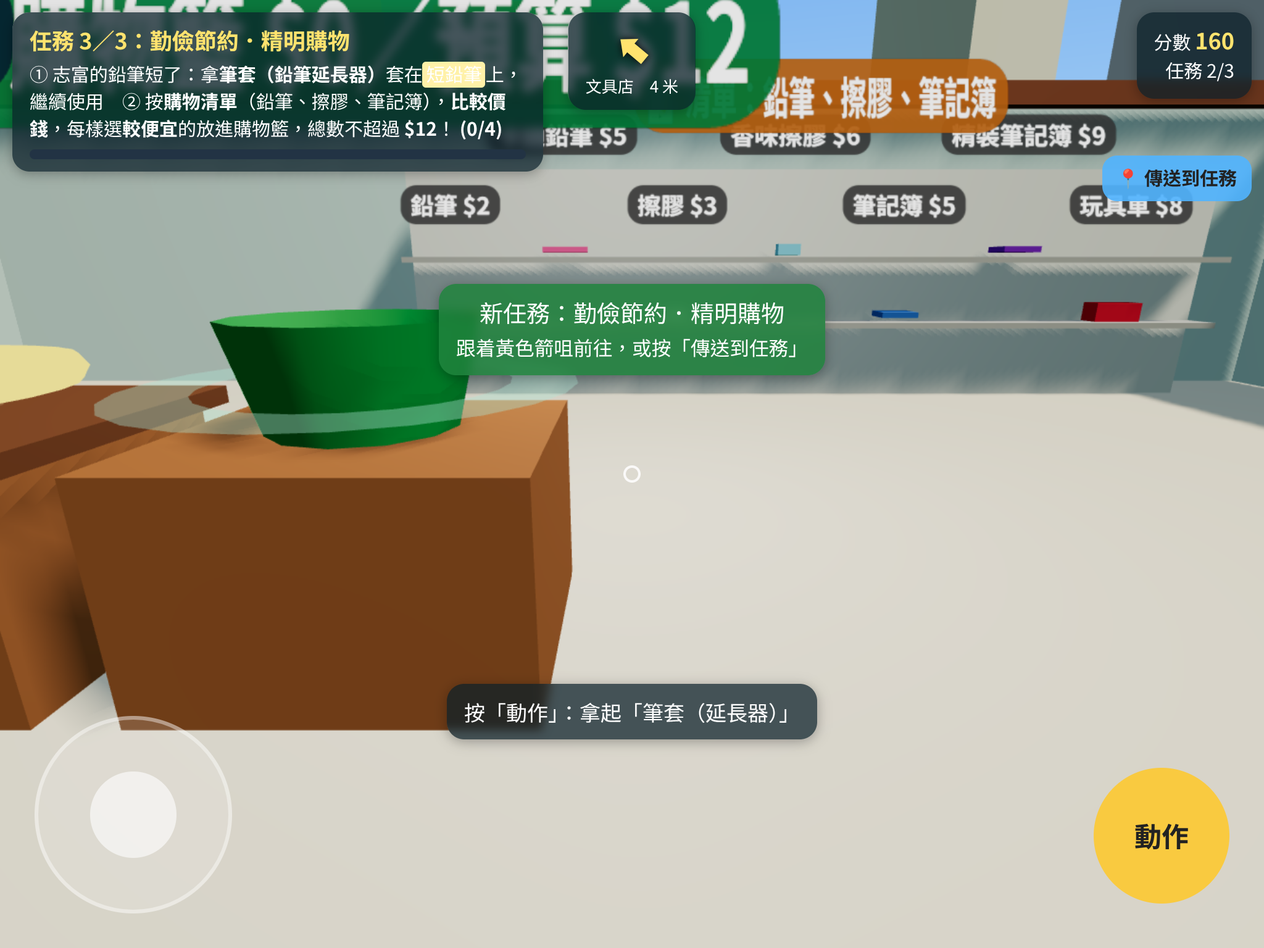
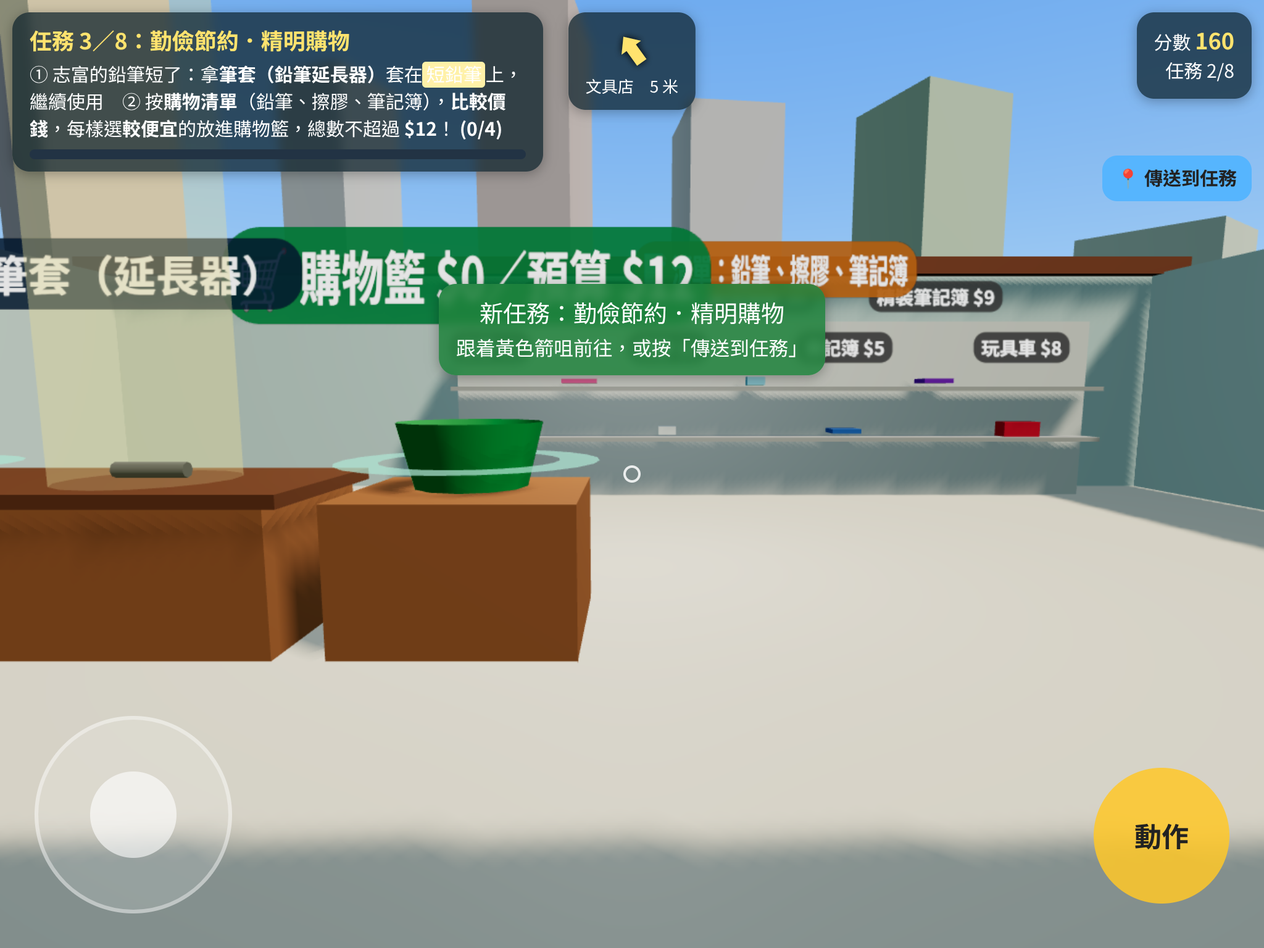
Full version: tasks 4-8, decluttered labels, furniture collisions

diff --git a/main.js b/main.js
@@ -185,7 +185,7 @@ function showModal(html, btn, cb) {
 }
 
 // ---------- item factory ----------
-function item(build, name, labelBg) { const g = new THREE.Group(); build(g); const lb = label(name || ' ', 0, 1.25, 0, 0.55, labelBg, null, g); lb.visible = !!name; g.userData.label = lb; scene.add(g); return g; }
+function item(build, name, labelBg, ls = 0.55) { const g = new THREE.Group(); build(g); const lb = label(name || ' ', 0, 1.25, 0, ls, labelBg, null, g); lb.visible = !!name; g.userData.label = lb; scene.add(g); return g; }
 const S = {
   bottle: g => { mesh(C(0.13, 0.13, 0.55), M(0x6fc6ff, { transparent: true, opacity: 0.75, roughness: 0.1 }), 0, 0.3, 0, g); mesh(C(0.06, 0.06, 0.1), M(0x1a5fd0), 0, 0.62, 0, g); },
   chair: g => { const w = M(0xa8743f); mesh(B(0.6, 0.08, 0.6), w, 0, 0.45, 0, g); mesh(B(0.6, 0.6, 0.08), w, 0, 0.78, -0.26, g); for (const [x, z] of [[-.25, -.25], [.25, -.25], [-.25, .25], [.25, .25]]) mesh(B(0.07, 0.45, 0.07), w, x, 0.22, z, g); },
@@ -209,7 +209,7 @@ const S = {
   plug: g => { mesh(B(0.18, 0.28, 0.12), M(0x2a2a2a), 0, 0.15, 0, g); mesh(B(0.04, 0.1, 0.04), M(0xd9b23a, { metalness: 0.8 }), 0, 0.33, 0, g); },
   box: c => g => { mesh(B(0.5, 0.5, 0.5), M(c), 0, 0.25, 0, g); },
 };
-function spawn(shape, name, x, z, task, kind, extra = {}) { const o = item(shape, name, extra.labelBg); o.position.set(x, extra.y ?? G(x, z), z); return addPickup(o, name, kind, task, extra); }
+function spawn(shape, name, x, z, task, kind, extra = {}) { const o = item(shape, name, extra.labelBg, extra.ls); o.position.set(x, extra.y ?? G(x, z), z); return addPickup(o, name, kind, task, extra); }
 
 // ---------- task framework ----------
 const tasks = []; let ti = 0;
@@ -239,6 +239,7 @@ const beacon = new THREE.Mesh(C(0.5, 0.5, 40, 16, 1, true), new THREE.MeshBasicM
 function zoneSign(text, x, z, h = 5) { const y = G(x, z); mesh(C(0.1, 0.1, h, 6), M(0x7a5a3a), x - 1.6, y + h / 2, z); mesh(C(0.1, 0.1, h, 6), M(0x7a5a3a), x + 1.6, y + h / 2, z); label(text, x, y + h, z, 1.3, 'rgba(30,110,60,0.92)'); }
 function crateAt(x, z, txt) { const g = new THREE.Group(); g.position.set(x, G(x, z), z); scene.add(g); mesh(B(1.4, 0.8, 1), M(0xa8743f), 0, 0.4, 0, g); mesh(B(1.5, 0.08, 1.1), M(0x7a4a2a), 0, 0.8, 0, g); label(txt, x, g.position.y + 2.3, z, 0.75); return g; }
 const boxes = []; // AABB colliders
+const furn = (x0, x1, z0, z1) => boxes.push([x0, x1, z0, z1]);
 function wall(x0, x1, z0, z1, h, mat) { const w = x1 - x0, d = z1 - z0; mesh(B(w, h, d), mat, (x0 + x1) / 2, h / 2, (z0 + z1) / 2); boxes.push([x0, x1, z0, z1]); }
 function room(cx, cz, W, D, wallC, floorC, doors) { // doors: {s:[gapx], n:[gapx]}
   const wm = M(wallC), x0 = cx - W / 2, x1 = cx + W / 2, z0 = cz - D / 2, z1 = cz + D / 2, h = 3.4, t = 0.3;
@@ -250,7 +251,7 @@ function room(cx, cz, W, D, wallC, floorC, doors) { // doors: {s:[gapx], n:[gapx
 // scenery
 {
   const d = new THREE.Object3D(), col = new THREE.Color(); const pts = [];
-  for (let i = 0; i < 600 && pts.length < 110; i++) { const x = rand(-90, 90), z = rand(-90, 60); if (Math.abs(x) < 22 && z > -45 && z < 20) continue; pts.push([x, z]); }
+  for (let i = 0; i < 600 && pts.length < 110; i++) { const x = rand(-90, 90), z = rand(-90, 60); if (Math.abs(x) < 36 && z > -42 && z < 36) continue; pts.push([x, z]); }
   const trunk = new THREE.InstancedMesh(C(0.15, 0.25, 1.6, 6), M(0x6b4a2b), pts.length), crown = new THREE.InstancedMesh(new THREE.IcosahedronGeometry(1.5, 0), M(0xffffff), pts.length);
   pts.forEach(([x, z], i) => { const s = rand(.9, 1.6); d.position.set(x, .8 * s, z); d.scale.setScalar(s); d.rotation.set(0, rand(0, 6), 0); d.updateMatrix(); trunk.setMatrixAt(i, d.matrix); d.position.y = 2.5 * s; d.updateMatrix(); crown.setMatrixAt(i, d.matrix); col.setHSL(.28 + rand(-.04, .04), .5, rand(.28, .4)); crown.setColorAt(i, col); });
   for (const m of [trunk, crown]) { m.castShadow = true; scene.add(m); }
@@ -297,6 +298,7 @@ const moneyS = (v) => g => { if (v >= 10 && v !== 10) { mesh(B(0.62, 0.02, 0.32)
   effects.push((dt, T) => { if (water.visible) water.scale.y = 1 + Math.sin(T * 30) * 0.05; });
 }
 
+furn(-1.1, 1.1, 0.3, 1.7); furn(-8.4, -4.4, -5.7, -4.7); furn(4, 7, 4.1, 5.2);
 // ===== 2. 管理金錢：分配零用錢 =====
 {
   const cx = -4, cz = -3.2;
@@ -311,17 +313,17 @@ const moneyS = (v) => g => { if (v >= 10 && v !== 10) { mesh(B(0.62, 0.02, 0.32)
     const g = new THREE.Group(); g.position.set(x, 0.9, -3.0); scene.add(g);
     if (k === 'save') { mesh(new THREE.SphereGeometry(0.38, 16, 12), M(c), 0, 0.35, 0, g).scale.set(1.2, 1, 1); mesh(B(0.2, 0.03, 0.04), M(0x333333), 0, 0.73, 0, g); }
     else mesh(B(0.8, 0.55, 0.6), M(c), 0, 0.28, 0, g);
-    lbls[k] = label(`${names[k]} $0/$${plan[k]}`, x, 2.4, -3.0, 0.62, 'rgba(40,40,80,0.9)');
+    lbls[k] = label(`${names[k]} $0/$${plan[k]}`, x, 1.95, -3.3, 0.42, 'rgba(40,40,80,0.9)');
     addSlot(new THREE.Vector3(x, 1.0, -2.7), names[k], t.id, it => {
       if (k !== 'save' && got.save < plan.save) return '記住<b>先儲蓄，後消費</b>！<br>先把 $50 放進儲蓄錢箱。';
       if (got[k] + it.v > plan[k]) return `${names[k]} 只需要 $${plan[k]}，放這 $${it.v} 會超出計劃！<br>量入為出，按計劃分配。`;
       return true;
     }, it => { it.obj.visible = false; got[k] += it.v; setLbl(lbls[k], `${names[k]} $${got[k]}/$${plan[k]}${got[k] === plan[k] ? ' ✔' : ''}`, got[k] === plan[k] ? 'rgba(30,140,60,0.9)' : 'rgba(40,40,80,0.9)'); g.scale.setScalar(1.15); setTimeout(() => g.scale.setScalar(1), 200); progress(t); }, { multi: true }).reach = 3.2;
   });
-  label('零用錢 $100', cx, 2.2, cz + 0.2, 0.6);
-  [20, 20, 10, 20, 10, 10, 10].forEach((v, i) => spawn(moneyS(v), '$' + v, cx - 1.9 + i * 0.63, cz + 0.25, t.id, 'money', { y: 0.9, v }));
+  [20, 20, 10, 20, 10, 10, 10].forEach((v, i) => spawn(moneyS(v), '$' + v, cx - 1.9 + i * 0.63, cz + 0.25, t.id, 'money', { y: 0.9, v, ls: 0.3 }));
 }
 
+furn(-6.3, -1.7, -3.9, -2.5);
 // ===== 3. 善用金錢：文具店 =====
 {
   const [cx, cz] = Z.shop; room(cx, cz, 16, 10, 0xd8eef0, 0xe8e0d0, { s: 0 });
@@ -354,15 +356,150 @@ const moneyS = (v) => g => { if (v >= 10 && v !== 10) { mesh(B(0.62, 0.02, 0.32)
   }, it => { it.obj.visible = false; bought[it.kind] = 1; spent += it.price; setLbl(bl, `🛒 購物籃 $${spent}／預算 $12`, 'rgba(30,110,60,0.92)'); progress(t); }, { multi: true }).reach = 3.5;
 }
 
+furn(-6, 0.7, -26.1, -24.9); furn(-2.5, 6.5, -32, -30.6);
+// ===== 4. 理財目標 =====
+{
+  const cx = -24, cz = 0; room(cx, cz, 16, 10, 0xfbe8d0, 0xd8b088, { n: 0 });
+  label('🎯 理財目標角', cx, 4.6, cz - 5.4, 1.3, 'rgba(180,90,30,0.92)');
+  const lp = new THREE.PointLight(0xffe8c0, 5, 14); lp.position.set(cx, 3, cz); scene.add(lp);
+  const t = defTask({ zone: '理財目標角', title: '訂立理財目標．儲蓄', total: 5, spawn: [cx, cz - 2.5, Math.PI],
+    desc: '① 把 3 個願望放到正確的<span class=hl>理財目標架</span>：短期（7月）、中期（12月）、長期（明年6月）　② 看看<b>六月收支紀錄</b>，把<b>$120 儲蓄</b>存入<span class=hl>儲蓄戶口</span>，零錢放進<span class=hl>錢箱</span>。',
+    lesson: `<p>訂立<b>理財目標</b>，有計劃地儲蓄：</p><ul><li>短期：🧩 拼圖 $100（7月）</li><li>中期：🎁 聖誕禮物 $500（12月）</li><li>長期：🚲 單車 $1000（明年6月）</li></ul><p>志富六月：收入 $400 ＝ 玩具 $120 ＋ 文具 $120 ＋ 捐款 $40 ＋ <b>儲蓄 $120</b>。</p><p>儲蓄方法：放進<b>錢箱</b>，或存入銀行<b>儲蓄戶口</b>。</p>` });
+  const shelves = [['短期 7月', 'short', cx - 4.5], ['中期 12月', 'mid', cx, ], ['長期 明年6月', 'long', cx + 4.5]];
+  shelves.forEach(([n, k, x]) => {
+    mesh(B(3.2, 0.12, 0.9), M(0x8a5a3a), x, 1.2, cz + 4.2); mesh(B(3.2, 2.4, 0.1), M(0xa87a50), x, 1.2, cz + 4.65); furn(x - 1.6, x + 1.6, cz + 3.7, cz + 4.8);
+    label(n, x, 2.9, cz + 4.2, 0.7, 'rgba(30,110,60,0.92)');
+    addSlot(new THREE.Vector3(x, 1.27, cz + 4.1), n, t.id, it => it.kind === k ? true : `想想「${it.name}」要多久才能儲夠錢？<br>目標時間：${it.when}`, it => { it.obj.userData.label.visible = true; progress(t); toast(`✔ ${it.name} 是${n.slice(0, 2)}目標`); }).reach = 3.4;
+  });
+  mesh(B(7, 0.1, 1.2), M(0xb0804a), cx, 0.85, cz - 1); furn(cx - 3.5, cx + 3.5, cz - 1.6, cz - 0.4);
+  [['🧩拼圖 $100', 'short', '7月', g => mesh(B(0.5, 0.08, 0.4), M(0x3ab0e0), 0, 0.1, 0, g)], ['🎁聖誕禮物 $500', 'mid', '12月', g => { mesh(B(0.45, 0.4, 0.45), M(0xd03030), 0, 0.25, 0, g); mesh(B(0.47, 0.42, 0.1), M(0xf0d040), 0, 0.25, 0, g); }], ['🚲單車 $1000', 'long', '明年6月', g => { for (const x of [-0.25, 0.25]) mesh(new THREE.TorusGeometry(0.17, 0.03, 6, 16), M(0x222222), x, 0.2, 0, g); mesh(B(0.5, 0.04, 0.04), M(0x2a7ad0), 0, 0.3, 0, g); }]]
+    .forEach(([n, k, w, sh], i) => spawn(sh, n, cx - 2.5 + i * 2.5, cz - 1, t.id, k, { y: 0.9, when: w }));
+  // June record board
+  mesh(B(4.4, 2.4, 0.1), M(0xffffff), cx - 7.8 + 0.1, 1.9, cz + 0.5).rotation.y = Math.PI / 2;
+  const rb = label('六月收支：收入$400', cx - 7.6, 2.8, cz + 0.5, 0.7, 'rgba(40,40,80,0.9)');
+  label('玩具$120 文具$120 捐款$40', cx - 7.6, 2.2, cz + 0.5, 0.7, 'rgba(40,40,80,0.9)');
+  const rs = label('儲蓄 $120 → ?', cx - 7.6, 1.6, cz + 0.5, 0.7, 'rgba(160,90,20,0.92)');
+  const atm = new THREE.Group(); atm.position.set(cx + 6.8, 0, cz - 3); scene.add(atm); mesh(B(1.2, 2, 0.8), M(0x2a5aa0), 0, 1, 0, atm); mesh(B(0.8, 0.5, 0.05), M(0x88ddff, { emissive: 0x206080 }), -0.62, 1.4, 0, atm).rotation.y = Math.PI / 2; furn(cx + 6.2, cx + 7.6, cz - 3.4, cz - 2.6);
+  const al = label('🏦 儲蓄戶口 $0', cx + 6.8, 2.7, cz - 3, 0.7, 'rgba(30,80,160,0.92)');
+  const pig = mesh(new THREE.SphereGeometry(0.35, 14, 10), M(0xff8aa8), cx - 5, 1.25, cz - 1); pig.scale.x = 1.2;
+  const pl = label('🐷 錢箱', cx - 5, 2.1, cz - 1, 0.55);
+  spawn(moneyS(100), '$120 儲蓄', cx + 2.6, cz - 1.2, t.id, 'deposit', { y: 0.9 });
+  spawn(moneyS(1), '零錢', cx - 3.6, cz - 1, t.id, 'coin', { y: 0.9 });
+  addSlot(new THREE.Vector3(cx + 6, 1.0, cz - 3), '儲蓄戶口', t.id, it => it.kind === 'deposit' ? true : '零錢可以放進錢箱。', it => { it.obj.visible = false; setLbl(al, '🏦 儲蓄戶口 $120 ✔', 'rgba(30,140,60,0.9)'); setLbl(rs, '儲蓄 $120 ✔ 已存入', 'rgba(30,140,60,0.9)'); progress(t); }).reach = 3.4;
+  addSlot(new THREE.Vector3(cx - 5, 1.0, cz - 1), '錢箱', t.id, it => it.kind === 'coin' ? true : '$120 較多，存入銀行儲蓄戶口較安全。', it => { it.obj.visible = false; setLbl(pl, '🐷 錢箱 ✔', 'rgba(30,140,60,0.9)'); progress(t); }).reach = 3;
+}
+
+// ===== 5. 電子消費．防騙 =====
+{
+  const cx = -24, cz = -27; room(cx, cz, 16, 10, 0xe0e4f4, 0x9aa0b0, { s: 0 });
+  label('💻 網上購物室', cx, 4.6, cz + 5.2, 1.3, 'rgba(60,60,160,0.92)');
+  const lp = new THREE.PointLight(0xe0e8ff, 5, 14); lp.position.set(cx, 3, cz); scene.add(lp);
+  const t = defTask({ zone: '網上購物室', title: '電子消費．識破騙局', total: 7, spawn: [cx, cz + 3.5, 0],
+    desc: '① 拿<b>八達通</b>拍在<span class=hl>讀卡器</span>付款　② 用<b>卡套</b>遮蓋<span class=hl>信用卡</span>資料　③ 把<b>太便宜</b>的優惠和<b>中獎</b>彈窗拖進<span class=hl>垃圾桶</span>　④ 把可疑<b>網址、電話、轉數快 ID</b> 放進<span class=hl>防騙視伏器</span>檢查。',
+    lesson: `<p>電子消費方式：<b>八達通、流動支付、轉數快 QR、網上購物</b>，方便但要小心！</p><ul><li>價錢<b>太便宜</b>的優惠可能是陷阱 ❌</li><li><b>信用卡資料外洩</b>，會收到詐騙電話</li><li>網上<b>產品照片</b>可能和實物不同</li><li><b>保護個人資料</b>，不隨便提供</li><li>用<b>「防騙視伏器」</b>檢查可疑網址、電話號碼、轉數快 ID 🔍</li></ul>` });
+  mesh(B(6, 0.1, 1.4), M(0x7a5a3a), cx, 0.85, cz - 3.6); furn(cx - 3, cx + 3, cz - 4.4, cz - 2.9);
+  mesh(B(1.8, 1.1, 0.08), M(0x111111), cx, 1.55, cz - 4.0); mesh(B(1.7, 1.0, 0.02), M(0x3a7ad0, { emissive: 0x2050a0 }), cx, 1.55, cz - 3.95, scene, false);
+  // reader
+  const rd = mesh(B(0.4, 0.15, 0.4), M(0xf0a020, { emissive: 0x402000 }), cx - 6, 1.0, cz + 1); mesh(B(1, 0.9, 1), M(0x888888), cx - 6, 0.45, cz + 1); furn(cx - 6.5, cx - 5.5, cz + 0.5, cz + 1.5);
+  const rl = label('八達通讀卡器 $8', cx - 6, 2.0, cz + 1, 0.6);
+  spawn(g => mesh(B(0.45, 0.03, 0.3), M(0xf0b030), 0, 0.1, 0, g), '八達通', cx - 4.6, cz - 3.6, t.id, 'oct', { y: 0.9 });
+  addSlot(new THREE.Vector3(cx - 6, 1.08, cz + 1), '讀卡器', t.id, it => it.kind === 'oct' ? true : '讀卡器要用八達通', it => { it.obj.userData.label.visible = false; rd.material.emissive.set(0x00a030); setLbl(rl, '嘟！付款成功 ✔', 'rgba(30,140,60,0.9)'); progress(t); }).reach = 3;
+  // credit card
+  const card = mesh(B(0.5, 0.02, 0.32), M(0x2050c0, { metalness: .4 }), cx + 2.2, 0.92, cz - 3.4);
+  const cl = label('信用卡資料外露！', cx + 2.2, 1.9, cz - 3.4, 0.6, 'rgba(160,40,30,0.9)');
+  spawn(g => mesh(B(0.56, 0.04, 0.38), M(0x333333), 0, 0.1, 0, g), '卡套', cx - 2.5, cz - 3.6, t.id, 'cover', { y: 0.9 });
+  addSlot(new THREE.Vector3(cx + 2.2, 0.9, cz - 3.4), '信用卡', t.id, it => it.kind === 'cover' ? true : '先用卡套遮蓋信用卡', it => { it.obj.userData.label.visible = false; setLbl(cl, '資料已保護 ✔', 'rgba(30,140,60,0.9)'); progress(t); }).reach = 3;
+  // popups
+  const pop = (txt, c) => g => { mesh(B(0.8, 0.5, 0.05), M(c, { emissive: c, emissiveIntensity: .3 }), 0, 0.35, 0, g); };
+  [['iPhone 只售$99!!', 'scam'], ['你中了大獎！按此領取', 'scam']].forEach(([n, k], i) => spawn(pop(n, 0xff5050), n, cx - 1.5 + i * 3, cz - 1, t.id, k, { y: 0.0, ls: 0.5 }));
+  [['網址 hsbc-hk.top', 'sus'], ['電話 +852 5xxx 未知', 'sus'], ['轉數快ID 9876543', 'sus']].forEach(([n, k], i) => spawn(pop(n, 0xffa030), n, cx + 3.5 + i * 1.6, cz + 1.2, t.id, k, { y: 0.0, ls: 0.5 }));
+  const bin = new THREE.Group(); bin.position.set(cx + 6.5, 0, cz - 3.2); scene.add(bin); mesh(C(0.5, 0.4, 1, 12), M(0x555555), 0, 0.5, 0, bin); label('🗑 垃圾桶', cx + 6.5, 1.8, cz - 3.2, 0.6);
+  addSlot(new THREE.Vector3(cx + 6.5, 1.0, cz - 3.2), '垃圾桶', t.id, it => it.kind === 'scam' ? true : it.kind === 'sus' ? '不確定真假？先放進防騙視伏器檢查！' : '這個不用丟', it => { it.obj.visible = false; progress(t); toast('❌ 太便宜／中獎＝陷阱，刪除！'); }, { multi: true }).reach = 3.2;
+  const sc = new THREE.Group(); sc.position.set(cx - 5.5, 0, cz - 3); scene.add(sc); mesh(B(1.2, 1.4, 1), M(0x20a080), 0, 0.7, 0, sc); const scl = mesh(B(0.9, 0.05, 0.7), M(0x90ffe0, { emissive: 0x30a080 }), 0, 1.43, 0, sc, false); furn(cx - 6.1, cx - 4.9, cz - 3.5, cz - 2.5);
+  const sl = label('🔍 防騙視伏器', cx - 5.5, 2.4, cz - 3, 0.7, 'rgba(20,120,90,0.92)');
+  addSlot(new THREE.Vector3(cx - 5.5, 1.5, cz - 3), '防騙視伏器', t.id, it => it.kind === 'sus' ? true : it.kind === 'scam' ? '明顯的陷阱直接丟進垃圾桶！' : '這個不用檢查', it => { it.obj.visible = false; scl.material.emissive.set(0xc02020); setLbl(sl, '⚠ 高風險！不要付款', 'rgba(180,30,30,0.92)'); setTimeout(() => { scl.material.emissive.set(0x30a080); }, 900); progress(t); toast('防騙視伏器：<b>' + it.name + '</b> 屬高風險 ⚠'); }, { multi: true }).reach = 3.2;
+  effects.push((dt, T) => { for (const i of inter) if (i.task === t.id && (i.kind === 'scam' || i.kind === 'sus')) i.obj.position.y = 0.9 + Math.sin(T * 2 + i.obj.position.x) * 0.12; });
+}
+
+// ===== 6. 綠色消費 =====
+{
+  const cx = 24, cz = -27; room(cx, cz, 16, 10, 0xe4f4dc, 0xc8d8b0, { s: 0 });
+  label('🌱 綠色小店（無包裝／二手）', cx, 4.6, cz + 5.2, 1.3, 'rgba(30,120,50,0.92)');
+  const lp = new THREE.PointLight(0xf0ffe8, 5, 14); lp.position.set(cx, 3, cz); scene.add(lp);
+  const t = defTask({ zone: '綠色小店', title: '綠色消費：推購物車', total: 7, spawn: [cx + 4, cz + 3.5, 0],
+    desc: '① 把<b>空樽</b>拿到<span class=hl>補充站</span>入沐浴露　② 揀選 5 件<b>綠色</b>貨品放進<span class=hl>購物車</span>（簡單包裝、本地、可重用、二手），<b>過度包裝</b>等要放回<span class=hl>退貨架</span>　③ 把購物車<b>推</b>到收銀處。',
+    lesson: `<p><b>綠色消費</b>：</p><ul><li>避免<b>過度包裝</b> 📦</li><li>選購<b>本地</b>農產品，減少運輸 🥬</li><li>選<b>可重用</b>物品：毛巾代替紙巾</li><li>想想<b>廢物如何處理</b>：到無包裝店<b>補充沐浴露</b>、用番梘</li><li>購買<b>二手</b>物品 ♻</li></ul>` });
+  for (const [x, z] of [[cx - 4, cz - 4.3], [cx + 3, cz - 4.3]]) { mesh(B(5, 1.8, 0.8), M(0xb08a5a), x, 0.9, z); furn(x - 2.5, x + 2.5, z - 0.4, z + 0.4); }
+  const items = [['本地菜心', 'g', 0x40a040], ['毛巾（可重用）', 'g', 0xf0f0ff], ['番梘', 'g', 0xf0e0a0], ['二手故事書', 'g', 0x8a5a3a], ['過度包裝月餅', 'b', 0xd03030], ['盒裝紙巾', 'b', 0xffffff], ['空運進口車厘子', 'b', 0x900020]];
+  const why = { '過度包裝月餅': '月餅盒過度包裝，製造大量垃圾！', '盒裝紙巾': '紙巾用完即棄，選可重用的毛巾吧！', '空運進口車厘子': '空運進口耗能，選本地農產品！' };
+  items.forEach(([n, k, c], i) => spawn(g => { mesh(k === 'b' && n.includes('月餅') ? B(0.6, 0.35, 0.6) : B(0.4, 0.25, 0.3), M(c), 0, 0.15, 0, g); if (n.includes('月餅')) mesh(B(0.65, 0.05, 0.65), M(0xf0c020), 0, 0.33, 0, g); }, n, cx - 6 + (i % 4) * 1.4 + (i > 3 ? 7.5 : 0), cz - 4.3, t.id, k, { y: 1.8, ls: 0.5, labelBg: k === 'g' ? 'rgba(40,110,50,0.85)' : 'rgba(60,60,60,0.85)' }));
+  const refill = new THREE.Group(); refill.position.set(cx + 6.8, 0, cz); scene.add(refill); mesh(B(0.8, 1.6, 0.8), M(0x3aa0c0), 0, 0.8, 0, refill); mesh(C(0.3, 0.3, 0.8, 12), M(0xa0e0ff, { transparent: true, opacity: .7 }), 0, 2.0, 0, refill); furn(cx + 6.4, cx + 7.2, cz - 0.4, cz + 0.4);
+  label('🧴 沐浴露補充站', cx + 6.8, 2.9, cz, 0.65, 'rgba(30,110,150,0.92)');
+  spawn(g => mesh(C(0.1, 0.12, 0.35, 10), M(0xffffff, { transparent: true, opacity: .6 }), 0, 0.2, 0, g), '自備空樽', cx + 5, cz + 3, t.id, 'bottle', { y: 0 });
+  const cart = new THREE.Group(); cart.position.set(cx + 1, 0.12, cz); scene.add(cart);
+  mesh(B(1.2, 0.7, 0.8), M(0x2fa84f, { metalness: .3 }), 0, 0.8, 0, cart); for (const [x, z] of [[-.5, -.35], [.5, -.35], [-.5, .35], [.5, .35]]) mesh(new THREE.SphereGeometry(0.1, 8, 6), M(0x222222), x, 0.1, z, cart); mesh(B(0.06, 0.6, 0.8), M(0x777777), 0.62, 1.2, 0, cart);
+  const cl = label('🛒 購物車 0/5', 0, 2.2, 0, 0.6, 'rgba(30,110,60,0.92)', null, cart); let n = 0; let cartPush = null;
+  const fill = mesh(B(1.0, 0.1, 0.6), M(0x8ad070), 0, 0.5, 0, cart, false); fill.visible = false;
+  const checkout = new THREE.Group(); checkout.position.set(cx - 5, 0, cz); scene.add(checkout); mesh(B(1.2, 1, 2), M(0xa86a3a), -1, 0.5, 0, checkout); label('收銀處', cx - 6, 2, cz, 0.7, 'rgba(160,90,20,0.92)');
+  const coSlot = addSlot(new THREE.Vector3(cx - 4.4, 0.12, cz), '收銀處', t.id, () => false, () => { cartPush.done = true; setLbl(cl, '✔ 綠色購物完成', 'rgba(30,140,60,0.92)'); progress(t); toast('綠色購物完成！🌏'); }, { enabled: false }); coSlot.reach = 0;
+  const addGood = () => { n++; setLbl(cl, `🛒 購物車 ${n}/5`, 'rgba(30,110,60,0.92)'); fill.visible = true; fill.position.y = 0.5 + n * 0.08; progress(t);
+    if (n >= 5) { coSlot.enabled = true; coSlot.marker.visible = true; cartPush = addPush(cart, '購物車', t.id, [coSlot]); toast('滿車了！從購物車<b>右邊</b>把它推向收銀處（左方）。'); } };
+  addSlot(new THREE.Vector3(cx + 1, 1.0, cz), '購物車', t.id, it => n >= 5 ? '購物車已滿' : it.kind === 'g' || it.kind === 'refilled' ? true : it.kind === 'bottle' ? '空樽先到補充站入沐浴露！' : '✗ ' + why[it.name] + '<br>放回退貨架吧。', it => { it.obj.visible = false; addGood(); }, { multi: true }).reach = 3.2;
+  addSlot(new THREE.Vector3(cx + 6.8, 1.6, cz), '補充站', t.id, it => it.kind === 'bottle' ? true : '補充站只可入沐浴露', it => { it.obj.position.set(cx + 6, 1.6, cz + 0.8); const r = addPickup(it.obj, '沐浴露（補充裝）', 'refilled', t.id); it.obj.userData.label.visible = true; setLbl(it.obj.userData.label, '沐浴露（補充裝）'); it.obj.children[0].material = M(0x7ad0a0, { transparent: true, opacity: .85 }); toast('入滿沐浴露，不用買新膠樽！'); }, {}).reach = 3;
+  const ret = new THREE.Group(); ret.position.set(cx - 6.8, 0, cz + 3); scene.add(ret); mesh(B(1, 1.2, 1.6), M(0x888888), 0, 0.6, 0, ret); label('↩ 退貨架', cx - 6.8, 2, cz + 3, 0.6); furn(cx - 7.3, cx - 6.3, cz + 2.2, cz + 3.8);
+  addSlot(new THREE.Vector3(cx - 6.8, 1.25, cz + 3), '退貨架', t.id, it => it.kind === 'b' ? true : '這是綠色貨品，放進購物車吧！', it => { it.obj.visible = false; progress(t); toast('放回了不環保的貨品 ↩'); }, { multi: true }).reach = 3;
+  t.total = 5 + 3 + 1; // 5 goods + 3 returns + push
+}
+
+// ===== 7. 金錢可以買到一切嗎？ =====
+{
+  const cx = 24, cz = 0; room(cx, cz, 16, 10, 0xf8e0f0, 0xe0c8d8, { n: 0 });
+  label('🎈 金錢可以買到一切嗎？', cx, 4.6, cz - 5.4, 1.3, 'rgba(160,50,120,0.92)');
+  const lp = new THREE.PointLight(0xfff0f8, 5, 14); lp.position.set(cx, 3, cz); scene.add(lp);
+  const can = ['玩具', '書本', '食物', '衣服'], cannot = ['快樂', '知識', '友誼', '時間', '健康', '自信', '親情'];
+  const t = defTask({ zone: '氣球房', title: '金錢可以買到一切嗎？', total: can.length + cannot.length, spawn: [cx, cz - 2.5, Math.PI],
+    desc: '捉住飄浮的<b>氣球</b>，放進<span class=hl>💰 金錢能買到</span>或<span class=hl>💖 金錢不能買到</span>的籠子。',
+    lesson: `<p>金錢<b>能買到</b>：玩具、書本、食物、衣服……</p><p>但金錢<b>不能買到</b>：<b>快樂、知識、友誼、時間、健康、自信、親情</b>。</p><p>金錢很重要，但不是萬能的！要珍惜身邊無價的東西 💖</p>` });
+  const cages = [['💰 金錢能買到', 'can', cx - 4, 0xf0c020], ['💖 金錢不能買到', 'cannot', cx + 4, 0xff70a0]];
+  const cnt = { can: 0, cannot: 0 }; const cls = {};
+  cages.forEach(([nm, k, x, c]) => { mesh(C(1.3, 1.3, 0.2, 20), M(c), x, 0.1, cz + 3.4); mesh(C(1.3, 1.3, 2.6, 20, 1, true), M(c, { transparent: true, opacity: 0.25, side: THREE.DoubleSide }), x, 1.4, cz + 3.4, scene, false); furn(x - 1.3, x + 1.3, cz + 2.1, cz + 4.7);
+    cls[k] = label(nm, x, 3.3, cz + 3.4, 0.8, 'rgba(60,40,80,0.9)');
+    addSlot(new THREE.Vector3(x, 1.2, cz + 2.2), nm, t.id, it => it.kind === k ? true : k === 'can' ? `「${it.name}」用錢買不到！` : `「${it.name}」可以用錢買到。`, it => { cnt[k]++; it.obj.position.set(x + Math.cos(cnt[k] * 1.7) * 0.6, 1.3 + (cnt[k] % 3) * 0.4, cz + 3.4 + Math.sin(cnt[k] * 1.7) * 0.6); it.obj.userData.label.visible = true; it.obj.userData.label.scale.set(1.6, 0.4, 1); it.placed = true; progress(t); }, { multi: true }).reach = 3.4; });
+  const balloon = c => g => { mesh(new THREE.SphereGeometry(0.28, 14, 10), M(c, { roughness: .3 }), 0, 0.9, 0, g).scale.y = 1.2; mesh(C(0.005, 0.005, 0.8, 3), M(0xffffff), 0, 0.4, 0, g, false); };
+  [...can.map(n => [n, 'can']), ...cannot.map(n => [n, 'cannot'])].sort(() => 0.5 - Math.random()).forEach(([n, k], i) => {
+    const it = spawn(balloon(new THREE.Color().setHSL(i / 11, .75, .55).getHex()), n, cx - 6 + (i % 6) * 2.4, cz - 2.6 + Math.floor(i / 6) * 2.2, t.id, k, { y: 0.3, ls: 0.45 }); it.bal = true; });
+  effects.push((dt, T) => { for (const i of inter) if (i.bal) i.obj.position.y = 0.3 + Math.sin(T * 1.5 + i.obj.position.x * 2) * 0.15; });
+}
+
+// ===== 8. 理財小達人大堂 =====
+{
+  const cx = 0, cz = 24; room(cx, cz, 20, 12, 0xfff4d8, 0xb08060, { n: 0 });
+  label('🏆 理財小達人大堂', cx, 4.6, cz - 6.4, 1.4, 'rgba(180,120,20,0.95)');
+  const lp = new THREE.PointLight(0xfff0c0, 8, 18); lp.position.set(cx, 3.2, cz); scene.add(lp);
+  mesh(B(8, 0.5, 3), M(0x8a2a2a), cx, 0.25, cz + 4); furn(cx - 4, cx + 4, cz + 2.5, cz + 5.5);
+  const steps = ['① 珍惜父母血汗錢', '② 先儲蓄後消費', '③ 精明消費比價錢', '④ 綠色消費愛地球', '⑤ 快樂親情錢買不到'];
+  const t = defTask({ zone: '大堂', title: '砌出「理財有方」獎盃塔', total: 6, spawn: [cx, cz - 3, Math.PI],
+    desc: '把 5 塊<b>理財積木</b>按次序（①到⑤，由下而上）疊在台上的<span class=hl>獎盃塔</span>，最後<b>拉下</b>彩帶繩慶祝！',
+    lesson: `<p>🎉 你已學會「理財有方」的五大重點：</p><ol><li>家中金錢由父母辛勤工作賺來，要珍惜</li><li>零用錢分儲蓄、消費、捐款；先儲蓄後消費、量入為出</li><li>勤儉節約、訂理財目標、比較價錢、小心電子消費陷阱</li><li>綠色消費</li><li>金錢不能買到一切</li></ol>` });
+  let lv = 0; const tower = new THREE.Vector3(cx, 0.5, cz + 3.6);
+  steps.forEach((n, i) => spawn(g => mesh(B(1.4 - i * 0.18, 0.4, 1.0 - i * 0.1), M(new THREE.Color().setHSL(i / 6, .7, .55).getHex()), 0, 0.2, 0, g), n, cx - 7 + [3, 0, 12, 6, 9][i], cz - 2.5 + (i % 2) * 1.5, t.id, 'blk', { lv: i, y: 0, ls: 0.4 }));
+  const sl = addSlot(tower.clone(), '獎盃塔', t.id, it => it.lv === lv ? true : `要按次序！下一塊是「${steps[lv]}」`, it => { it.obj.position.set(cx, 0.5 + lv * 0.4, cz + 3.6); it.obj.userData.label.visible = false; lv++; sl.pos.y = 0.5 + lv * 0.4; progress(t); if (lv === 5) { cup.visible = true; rope.visible = true; } }, { multi: true }); sl.reach = 4;
+  const cup = new THREE.Group(); cup.position.set(cx, 2.5, cz + 3.6); scene.add(cup); mesh(C(0.4, 0.15, 0.6, 16), M(0xf0c030, { metalness: .9, roughness: .2 }), 0, 0.3, 0, cup); mesh(C(0.1, 0.25, 0.2, 12), M(0xf0c030, { metalness: .9, roughness: .2 }), 0, 0, 0, cup); cup.visible = false;
+  const rope = new THREE.Group(); rope.position.set(cx + 5, 0, cz + 1); scene.add(rope); mesh(C(0.04, 0.04, 2.6, 6), M(0xd03030), 0, 2.1, 0, rope); mesh(new THREE.SphereGeometry(0.15, 8, 6), M(0xf0c020), 0, 0.8, 0, rope); label('拉下彩帶繩 🎊', cx + 5, 2.2, cz + 1, 0.6, 'rgba(180,40,40,0.9)');
+  const confetti = particles(400, 0xffffff, 0.25, { opacity: 1 }); confetti.visible = false; let ct = 0;
+  addSwitch(rope, '彩帶繩', t.id, it => { if (lv < 5) { mistakes++; toast('先砌好獎盃塔！', 'bad'); return; } it.done = true; rope.position.y = -0.6; confetti.visible = true; progress(t); toast('🎊 恭喜！理財小達人！'); }, '拉下');
+  effects.push((dt, T) => { if (cup.visible) cup.rotation.y += dt; if (!confetti.visible) return; ct += dt; const p = confetti.geometry.attributes.position, sd = confetti.userData.seed; for (let i = 0; i < sd.length; i++) { const f = (sd[i] + ct * 0.25) % 1; p.setXYZ(i, cx + Math.sin(i * 7.1) * 9, 3.3 - f * 3.3, cz + Math.cos(i * 3.3) * 5.5); } p.needsUpdate = true; confetti.material.color.setHSL((T * 0.3) % 1, 1, 0.6); });
+}
+
 // ---------- finale ----------
 const fireworks = particles(500, 0xffffff, 0.9, { opacity: 1 }); fireworks.visible = false;
 function finale() {
-  fireworks.visible = true; player.pos.set(0, 1.6, 10); player.yaw = 0; player.pitch = 0.35;
+  fireworks.visible = true; player.pos.set(0, 1.6, 20); player.yaw = Math.PI; player.pitch = 0.2;
   const stars = mistakes <= 3 ? '⭐⭐⭐' : mistakes <= 8 ? '⭐⭐' : '⭐';
-  showModal(`<h1>🎉 志富成為理財小達人！</h1><p style="font-size:34px;text-align:center;margin:0">${stars}</p><p style="text-align:center">總分：<b>${score}</b>　　放錯／提示：${mistakes} 次</p><h3>你學會了：</h3><ul><li>家中金錢由<b>父母工作賺取</b>，要<b>珍惜金錢、不浪費</b></li><li>零用錢分成<b>儲蓄、消費、捐款</b>；<b>先儲蓄後消費、量入為出</b></li><li><b>勤儉節約</b>；按<b>購物清單</b>和<b>預算</b>購物，<b>比較價錢</b></li></ul><p>（試玩版：更多任務即將推出！）</p>`, '欣賞煙花 🎆', () => { $('ttitle').textContent = '🎉 全部任務完成！'; $('tdesc').innerHTML = `總分 ${score}　按 F5 可重新開始`; });
+  showModal(`<h1>🎉 志富成為理財小達人！</h1><p style="font-size:34px;text-align:center;margin:0">${stars}</p><p style="text-align:center">總分：<b>${score}</b>　　放錯／提示：${mistakes} 次</p><h3>你學會了：</h3><ul><li>家中金錢由<b>父母工作賺取</b>，要<b>珍惜金錢、不浪費</b></li><li>零用錢分成<b>儲蓄、消費、捐款</b>；<b>先儲蓄後消費、量入為出</b></li><li><b>勤儉節約</b>；按<b>購物清單</b>和<b>預算</b>購物，<b>比較價錢</b></li><li><b>理財目標</b>：短期、中期、長期；錢箱／儲蓄戶口</li><li><b>電子消費</b>要小心陷阱，用防騙視伏器</li><li><b>綠色消費</b>：簡單包裝、本地、可重用、補充裝、二手</li><li>金錢<b>不能買到</b>快樂、知識、友誼、時間、健康、自信、親情</li></ul><p></p>`, '欣賞煙花 🎆', () => { $('ttitle').textContent = '🎉 全部任務完成！'; $('tdesc').innerHTML = `總分 ${score}　按 F5 可重新開始`; });
   sfx(523, .2); sfx(659, .2, .2); sfx(784, .2, .4); sfx(1046, .5, .6);
 }
-effects.push((dt, T) => { if (!fireworks.visible) return; const p = fireworks.geometry.attributes.position, sd = fireworks.userData.seed; for (let i = 0; i < sd.length; i++) { const burst = i % 8, f = (T * 0.4 + burst * 0.13) % 1, a = sd[i] * 6.283, b = (i * 0.37) % 3.14; const bx = -35 + burst * 10, by = 22 + (burst % 3) * 7, bz = -40; const r = f * 11; p.setXYZ(i, bx + Math.cos(a) * Math.sin(b) * r, by + Math.cos(b) * r - f * f * 5, bz + Math.sin(a) * Math.sin(b) * r); } p.needsUpdate = true; fireworks.material.color.setHSL((T * 0.2) % 1, 1, 0.65); });
+effects.push((dt, T) => { if (!fireworks.visible) return; const p = fireworks.geometry.attributes.position, sd = fireworks.userData.seed; for (let i = 0; i < sd.length; i++) { const burst = i % 8, f = (T * 0.4 + burst * 0.13) % 1, a = sd[i] * 6.283, b = (i * 0.37) % 3.14; const bx = -35 + burst * 10, by = 22 + (burst % 3) * 7, bz = 60; const r = f * 11; p.setXYZ(i, bx + Math.cos(a) * Math.sin(b) * r, by + Math.cos(b) * r - f * f * 5, bz + Math.sin(a) * Math.sin(b) * r); } p.needsUpdate = true; fireworks.material.color.setHSL((T * 0.2) % 1, 1, 0.65); });
 
 // ---------- main loop ----------
 const clock = new THREE.Clock(); let T = 0;
@@ -400,6 +537,7 @@ function update(dt) {
     const k = isTouch ? '按「動作」' : '按 E／左鍵';
     pr.textContent = focus.s ? `${k}：把「${carried.name}」放進「${focus.s.name}」` : `${k}：${focus.i.type === 'switch' ? focus.i.verb : focus.i.type === 'push' ? '推動' : '拿起'}「${focus.i.name}」`; pr.style.display = 'block';
   } else { ring.visible = false; if (carried && !paused) { pr.textContent = `正拿着「${carried.name}」— 走到發光圓圈並對準它`; pr.style.display = 'block'; } else pr.style.display = 'none'; }
+  for (const i of inter) { const l = i.obj.userData.label; if (l && i.name && i !== carried) l.visible = i.task === ti; }
   for (const s of slots) if (s.marker.visible) s.marker.material.opacity = 0.45 + Math.sin(T * 4) * 0.3;
   for (const e of effects) e(dt, T);
   const t = curTask();

diff --git a/index.html b/index.html
@@ -49,7 +49,7 @@ canvas{display:block;touch-action:none}
 </div>
 <div id="modal" class="modal"><div class="card" id="card">
 <h1>💰 理財有方：志富的金錢任務</h1>
-<p>你是<b>志富</b>！走遍<b>志富的家、零用錢銀行角和文具店</b>，親手完成理財任務，學會珍惜和善用金錢。（試玩版：3 個任務）</p>
+<p>你是<b>志富</b>！走遍<b>志富的家、文具店、理財目標角、網上購物室、綠色小店、氣球房和大堂</b>，親手完成理財任務，學會珍惜和善用金錢。共 8 個任務！</p>
 <h3>電腦操作</h3><p>按畫面開始 → <b>W A S D</b> 移動、<b>滑鼠</b> 轉視角、<b>左鍵 / E</b> 拿起、放下、使用；Shift 跑步；Esc 放開滑鼠。</p>
 <h3>iPad / 手機操作</h3><p>左下<b>搖桿</b>移動、右邊畫面<b>拖動</b>轉視角、按黃色<b>「動作」</b>鍵拿起、放下、使用。</p>
 <p>👉 跟着上方的<b>黃色箭咀</b>和<b>光柱</b>前往任務地點，也可按「傳送到任務」。</p>
